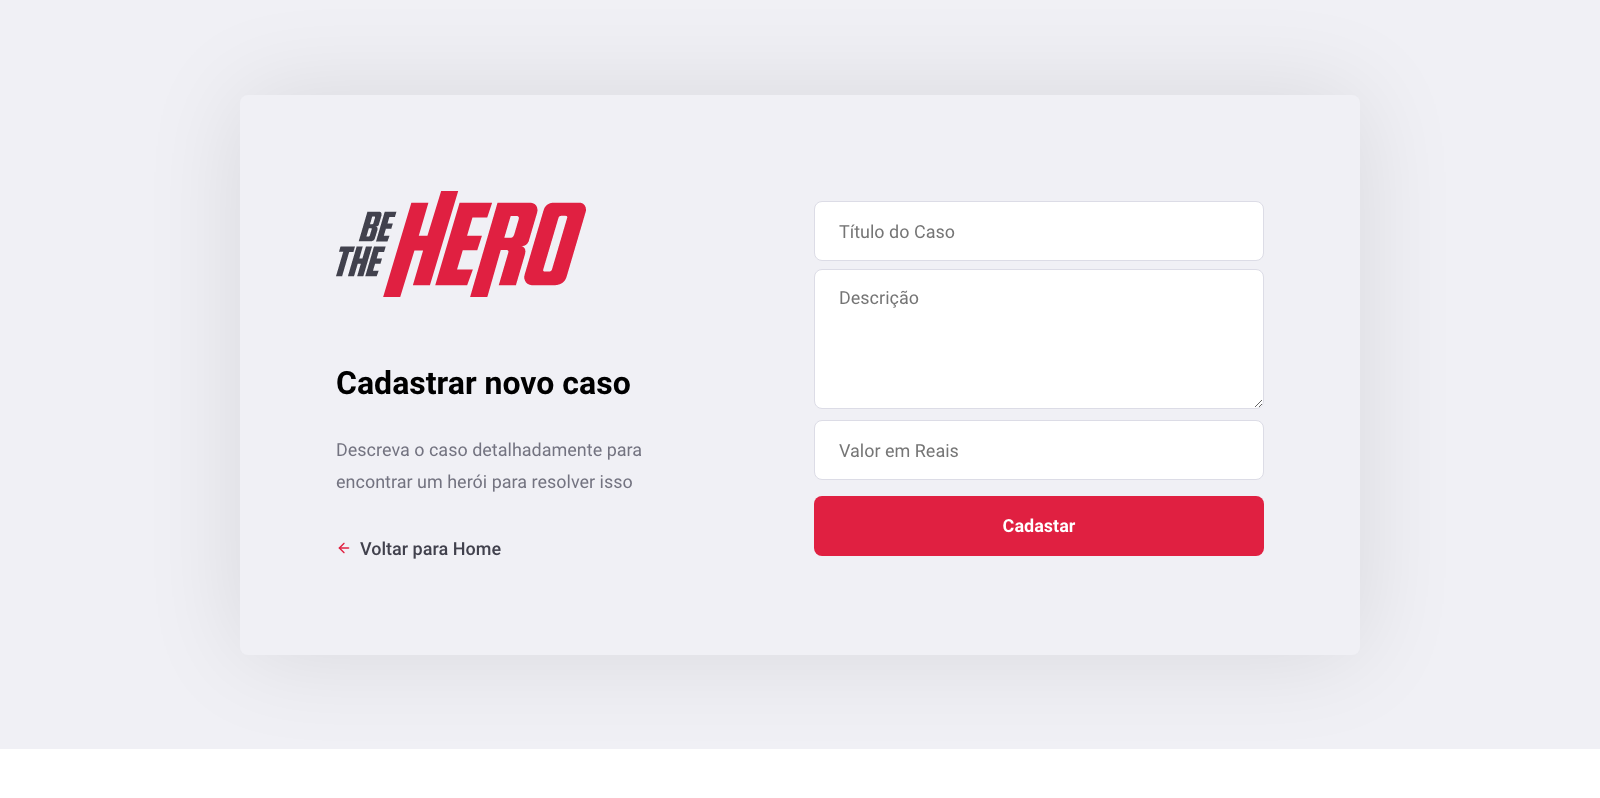
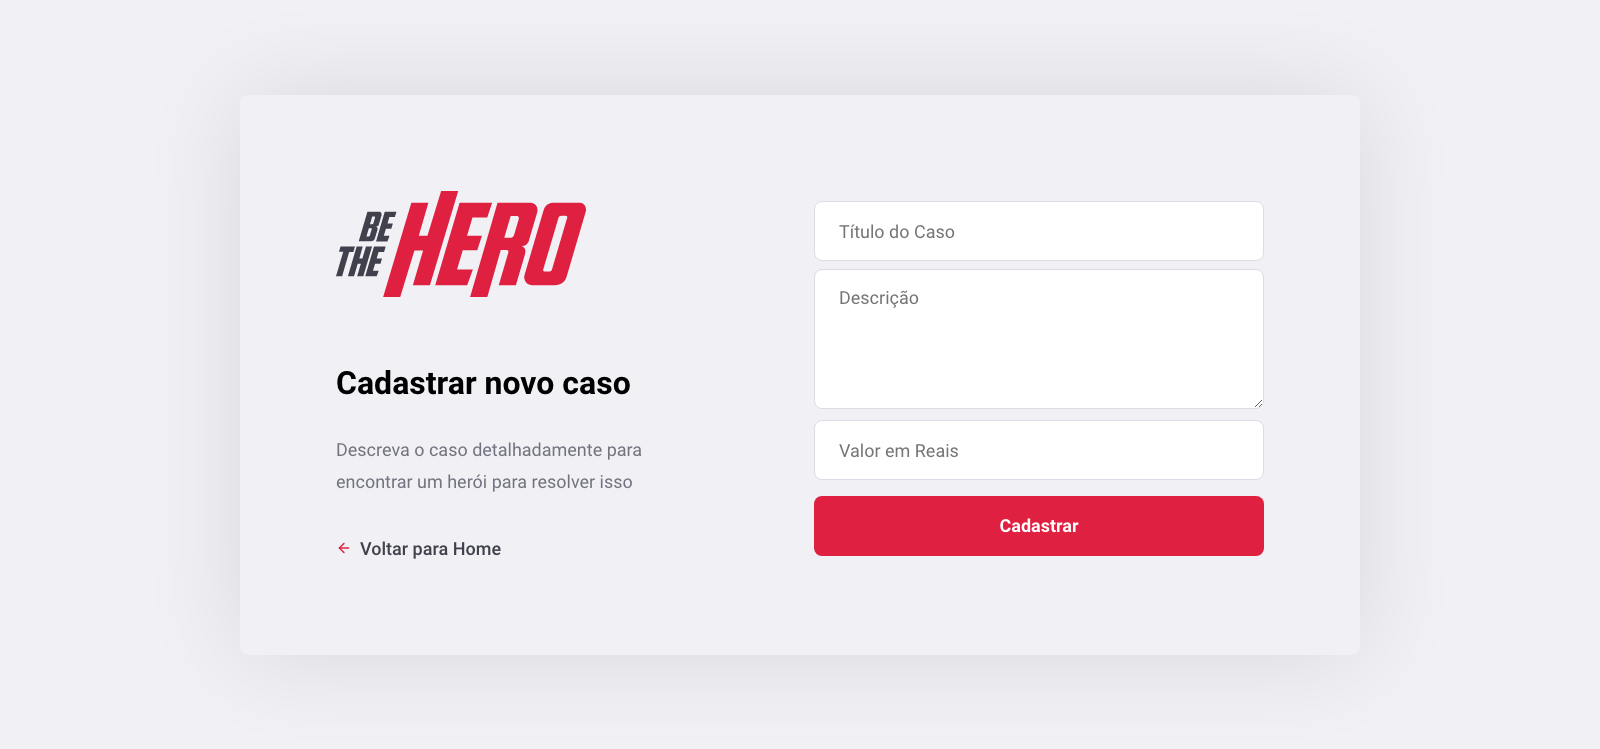
adicionando imagens do frontend para o readme

diff --git a/frontend/src/pages/NewIncident/index.js b/frontend/src/pages/NewIncident/index.js
@@ -70,7 +70,7 @@ export default function NewIncident(){
                         onChange={e => setValue(e.target.value)}
                         placeholder="Valor em Reais"/>
 
-                    <button className="button" type="submit">Cadastar</button>
+                    <button className="button" type="submit">Cadastrar</button>
                 </form>
             </div>
         </div>
